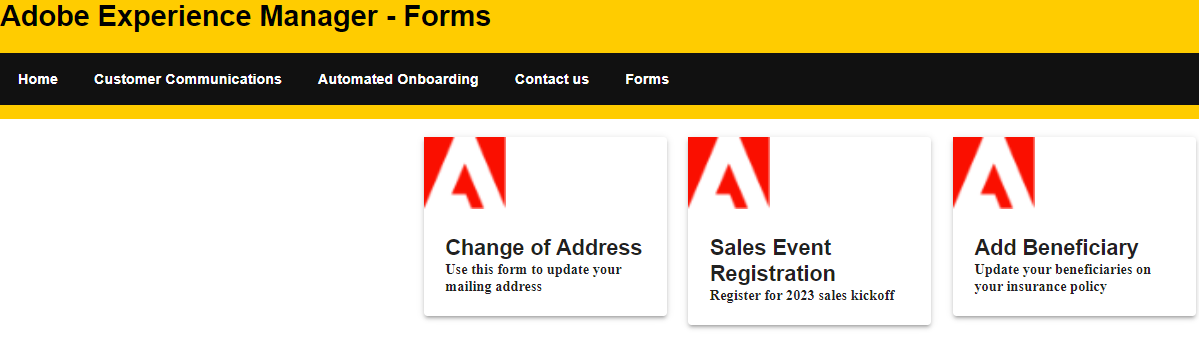
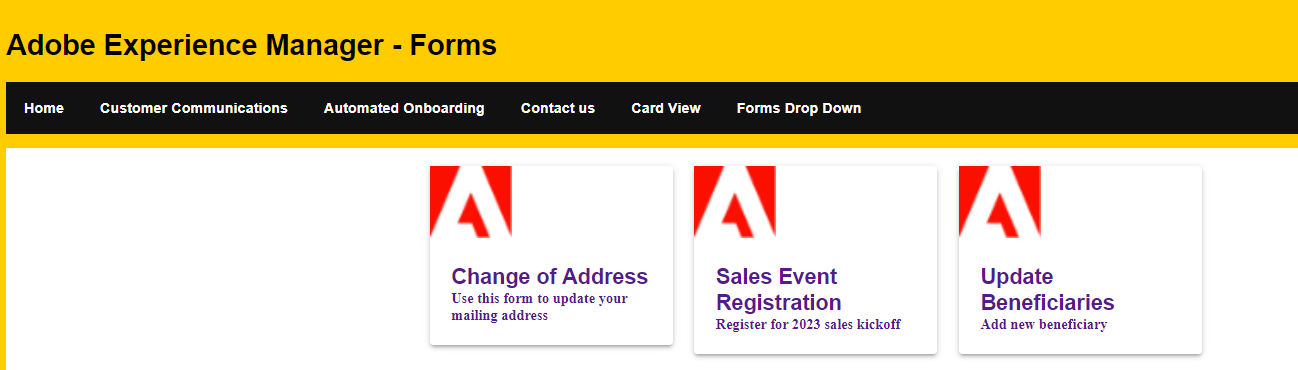
added new article (#1184)

diff --git a/help/forms/headless-forms/display-forms-card-view.md b/help/forms/headless-forms/display-forms-card-view.md
@@ -11,7 +11,10 @@ exl-id: 7316ca02-be57-4ecf-b162-43a736b992b3
 ---
 # Fetch and display the forms in card format
 
-Card view format is a design pattern that presents information or data in the form of cards. Each card represents a discrete piece of content or data entry and typically consists of a visually distinct container with specific elements arranged within it. In this article, we will use the [listforms API](https://opensource.adobe.com/aem-forms-af-runtime/api/#tag/List-Forms/operation/listForms) to fetch the forms and display the forms in card format as shown below
+Card view format is a design pattern that presents information or data in the form of cards. Each card represents a discrete piece of content or data entry and typically consists of a visually distinct container with specific elements arranged within it.
+Clickable cards in React are interactive components that resemble cards or tiles and can be clicked or tapped by the user. When a user clicks or taps on a clickable card, it triggers a specified action or behavior, such as navigating to another page, opening a modal, or updating the UI.
+
+In this article, we will use the [listforms API](https://opensource.adobe.com/aem-forms-af-runtime/api/#tag/List-Forms/operation/listForms) to fetch the forms and display the forms in card format and open the adaptive form on the click event.
 
 ![card-view](./assets/card-view-forms.png)
 
@@ -19,38 +22,64 @@ Card view format is a design pattern that presents information or data in the fo
 
 The following code was used to design the card template. The card template is displaying the adaptive form's title and description along with Adobe logo. [Material UI components](https://mui.com/) have been used in creating this layout.
 
-``` javascript
 
-import Paper from "@mui/material/Paper";
-import Grid from "@mui/material/Grid";
+
+``` javascript
 import Container from "@mui/material/Container";
-import { Typography } from "@mui/material";
+import Form from './Form';
+import PlainText from './plainText'
+import TextField from './TextField'
+import Button from './Button';
+import { AdaptiveForm } from "@aemforms/af-react-renderer";
+
+import { CardActionArea, Typography } from "@mui/material";
 import { Box } from "@mui/system";
-const FormCard =({headlessForm}) => {
+import { useState,useEffect } from "react";
+import DisplayForm from "../DisplayForm";
+import { Link } from "react-router-dom";
+export default function FormCard({headlessForm}) {
+const extendMappings =
+    {
+        'plain-text' : PlainText,
+        'text-input' : TextField,
+        'button' : Button,
+        'form': Form
+    };
+    const[formPath, setFormPath] = useState('');
+    const [selectedForm, setForm] = useState('');
     return (
-              <Grid item xs={3}>
+        
+            <Grid item xs={3}>
                 <Paper elevation={3}>
                     <img src="/content/dam/formsanddocuments/registrationform/jcr:content/renditions/cq5dam.thumbnail.48.48.png" className="img"/>
                     <Box padding={3}>
-                    <Typography variant="subtititle2" component="h2">
-                        {headlessForm.title}
-                    
-                    </Typography>
-                    <Typography variant="subtititle3" component="h4">
-                        {headlessForm.description}
-                    
-                    </Typography>
+                        <Link style={{ textDecoration: 'none' }} to={`/displayForm${headlessForm.path}`}>
+                            <Typography variant="subtititle2" component="h2">
+                                {headlessForm.title}
+                            </Typography>
+                            <Typography variant="subtititle3" component="h4">
+                                {headlessForm.description}
+                            </Typography>
+                        </Link>
+                
                     </Box>
                 </Paper>
-                </Grid>
-          
-
-
+            </Grid>
     );
     
 
 };
-export default FormCard;
+
+
+
+```
+
+The following route was defined in the Main.js to navigate to DisplayForm.js
+
+```javascript
+
+    <Route path="/displayForm/*" element={<DisplayForm/>} exact/>
+
 ```
 
 ## Fetch the forms
@@ -100,3 +129,7 @@ export default function ListForm(){
 ```
 
  In the above code, we iterate through the fetchedForms using the map function and for every item in the fetchedForms array a FormCard component is created and added to the Grid container. You can now use the ListForm component in your React app as per your requirements.
+
+## Next Steps
+
+[Display the adaptive form when user clicks on a card](./open-form-card-view.md)

diff --git a/help/forms/headless-forms/open-form-card-view.md b/help/forms/headless-forms/open-form-card-view.md
@@ -1,0 +1,69 @@
+---
+title: Click on card to display the form
+description: Drill down on form from card view
+feature: Adaptive Forms
+version: 6.5
+kt: 13372
+topic: Development
+role: User
+level: Intermediate
+
+---
+# Displaying the form on card click
+
+The following code was used to display the form when the user clicks on a card. The path of the form to display is extracted from the url using the useParams function.
+
+``` javascript
+import Form from './components/Form';
+import PlainText from './components/plainText';
+import TextField from './components/TextField';
+import Button from './components/Button';
+import Panel from './components/Panel';
+import { useState,useEffect } from "react";
+import {Link, useParams} from 'react-router-dom';
+import { AdaptiveForm } from "@aemforms/af-react-renderer";
+export default function DisplayForm()
+{
+   const [selectedForm, setForm] = useState("");
+   const params = useParams();
+   const pathParam = params["*"];
+   const extendMappings =
+    {
+        'plain-text' : PlainText,
+        'text-input' : TextField,
+        'button' : Button,
+        'form': Form
+    };
+    
+    // Add the leading '/' back on 
+   const path = '/' + pathParam;
+   const getAFForm = async () =>
+    {
+           
+        const resp = await fetch(`${path}/jcr:content/guideContainer.model.json`);
+        let formJSON = await resp.json();
+        console.log("The contact form json is "+formJSON);
+        setForm(formJSON)
+    }
+    
+    useEffect( ()=>{
+        getAFForm()
+        
+
+    },[]);
+    return(
+       <div>
+           <AdaptiveForm mappings={extendMappings} formJson={selectedForm}/>
+        </div>
+    )
+}
+
+```
+
+In the above code the path of the form that is to be rendered is extracted from the url and used in the fetch call to fetch the JSON of the form. The fetched JSON is then in the following code
+
+```javascript
+        <div>
+           <AdaptiveForm mappings={extendMappings} formJson={selectedForm}/>
+        </div>
+```

diff --git a/help/forms/TOC.md b/help/forms/TOC.md
@@ -230,6 +230,7 @@ index: y
   + [3 - Fetch the form](headless-forms/fetch-the-form.md)
   + [4 - Select form to fill](headless-forms/select-form-from-drop-down-list.md)
   + [5 - Display forms in card format](headless-forms/display-forms-card-view.md)
+  + [6 - Display selected form](headless-forms/open-form-card-view.md)
   
 + React App with Forms and Acrobat Sign {#react-ic-sign}
   + [1 - Introduction](react-ic-sign/introduction.md)
